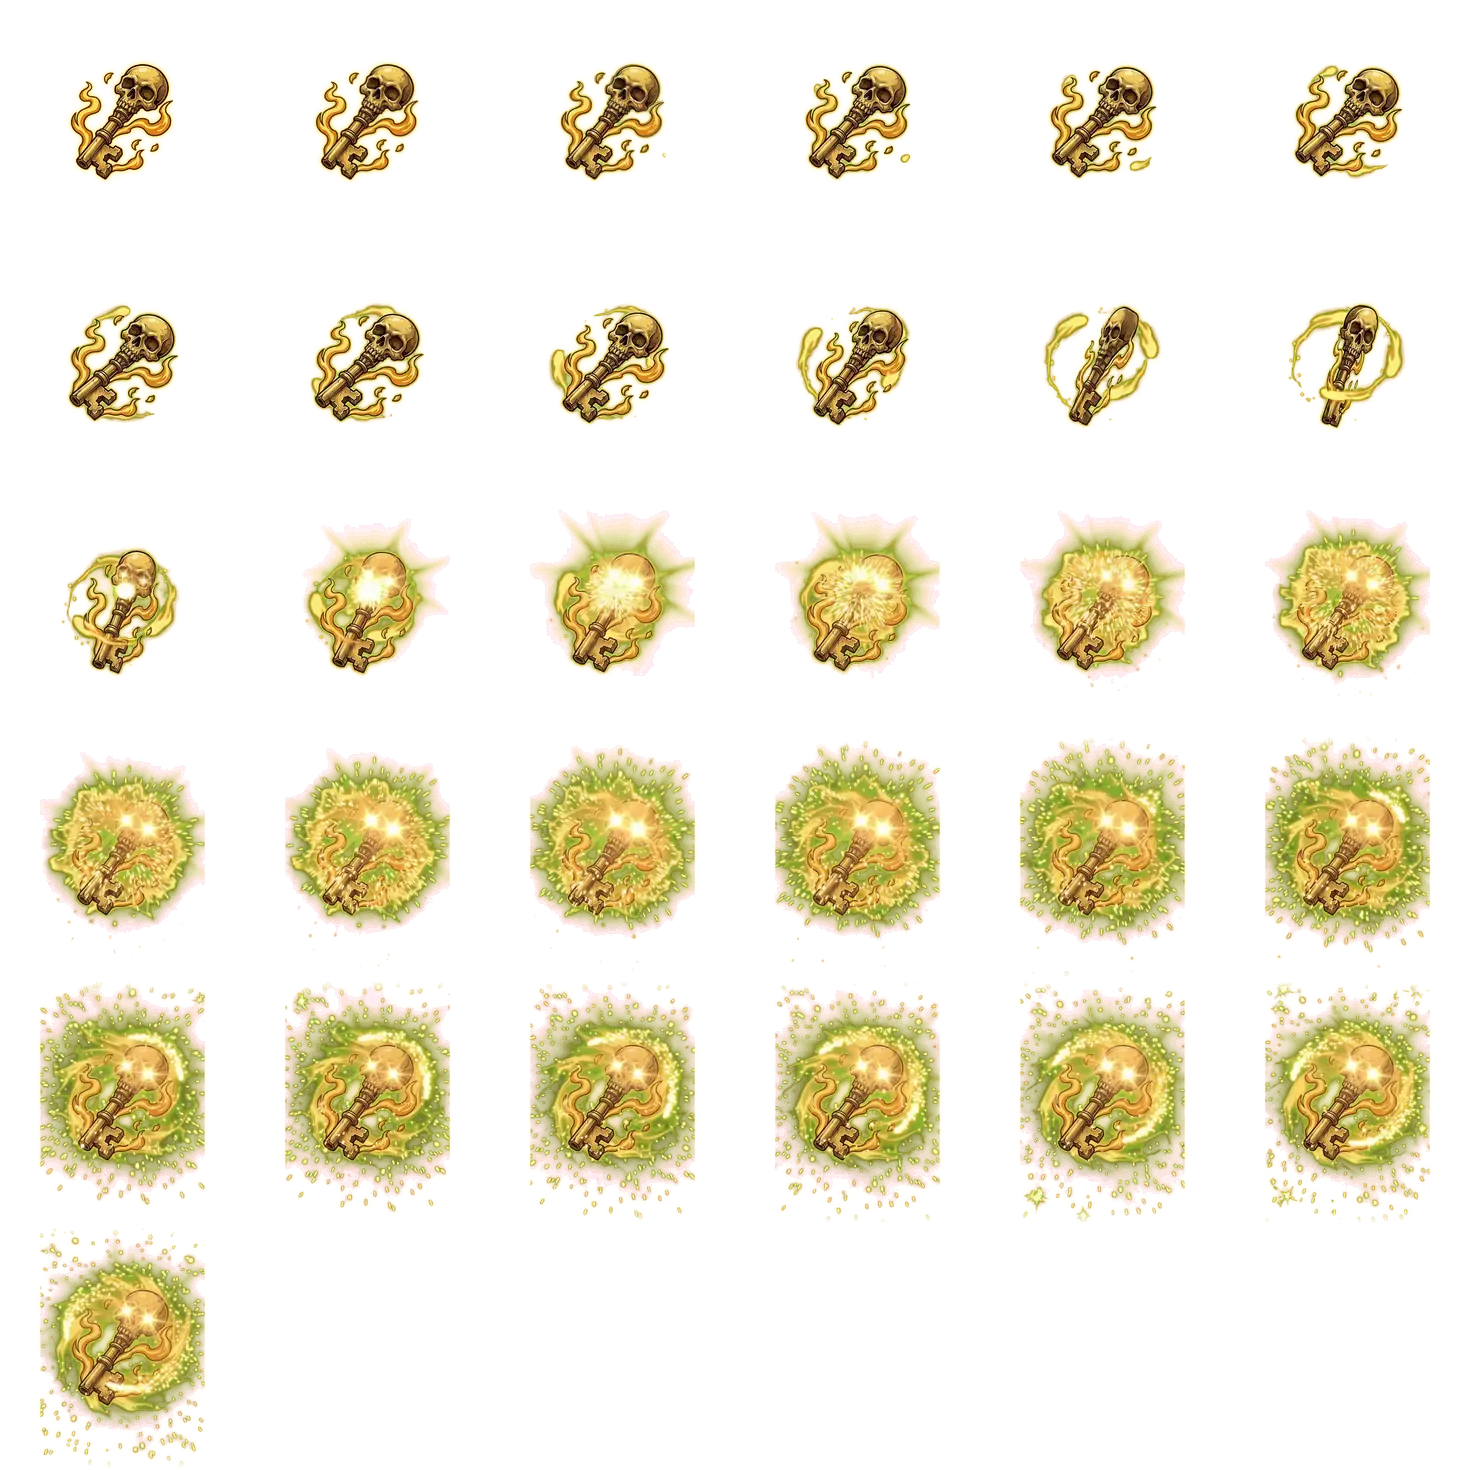
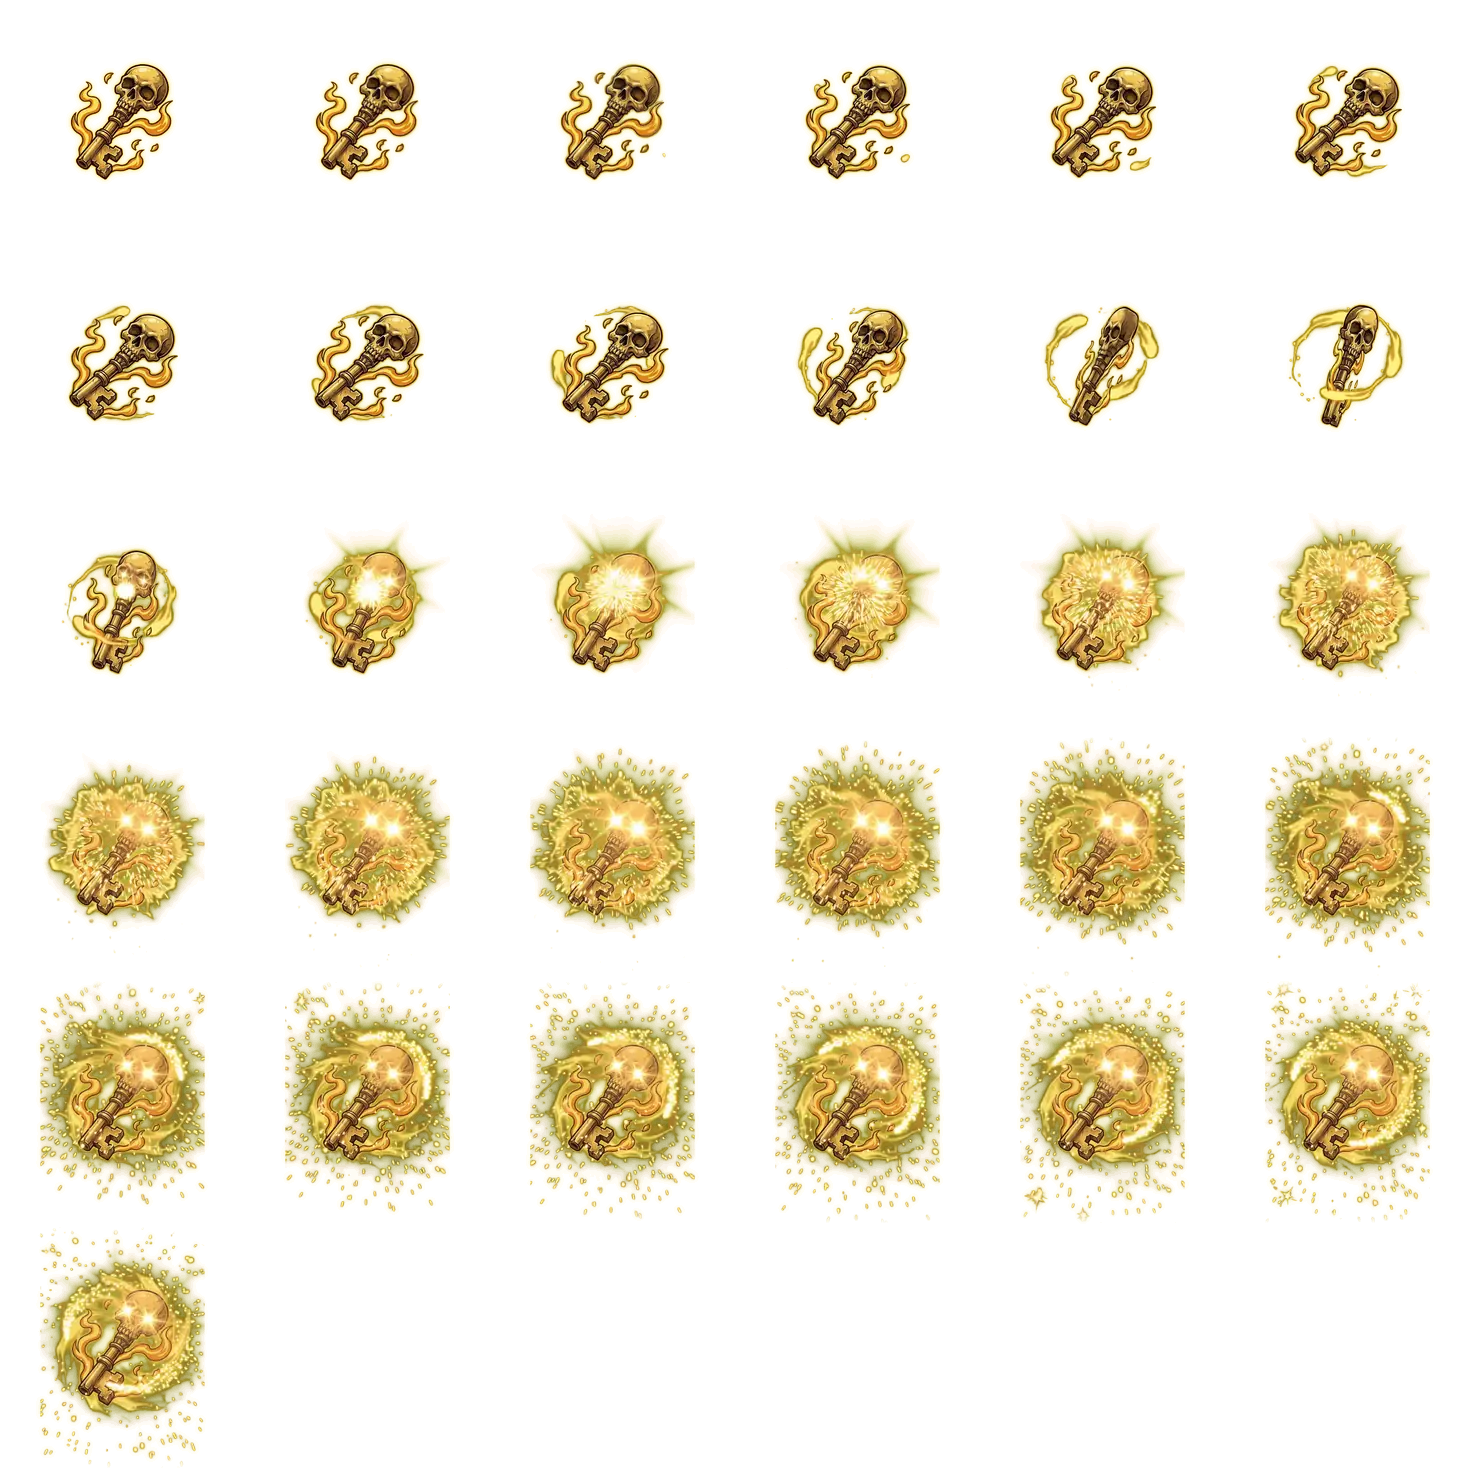
Skull key: idle loop and a clean gold win (backdrop read off each take, gold symbols pull pink or lime spill back to gold); the clip tool retries when the video limit refuses

diff --git a/tools/sprites/symanim.py b/tools/sprites/symanim.py
@@ -109,12 +109,16 @@ def frames(path):
     return out
 
 
-def key(rgb, bg):
-    """Alpha from how far a pixel leans to the backdrop colour, the colour unmixed from it: C = a F + (1 - a) B."""
+def key(rgb, warm=False):
+    """Alpha from how far a pixel leans to the backdrop colour, the colour unmixed from it: C = a F + (1 - a) B.
+    The backdrop (green or magenta) is read off the frame's edge, so takes on either key right. warm: the symbol is
+    gold (red >= green >= blue everywhere), so each pixel is given the gold hue, and the faint
+    halo a flash casts on the backdrop thins out."""
     r, g, b = rgb[..., 0], rgb[..., 1], rgb[..., 2]
-    lean = g - np.maximum(r, b) if bg == "green" else np.minimum(r, b) - g
     edge = np.concatenate([rgb[:8].reshape(-1, 3), rgb[-8:].reshape(-1, 3), rgb[:, :8].reshape(-1, 3), rgb[:, -8:].reshape(-1, 3)])
     B = np.median(edge, axis=0)  # this frame's backdrop, as filmed
+    bg = "green" if B[1] > max(B[0], B[2]) else "magenta"
+    lean = g - np.maximum(r, b) if bg == "green" else np.minimum(r, b) - g
     full = (B[1] - max(B[0], B[2])) if bg == "green" else (min(B[0], B[2]) - B[1])
     lo, hi = .22 * full, .86 * full  # leaning this little is the symbol's own colour; this much is backdrop
     a = np.clip((hi - lean) / (hi - lo), 0, 1)
@@ -130,6 +134,11 @@ def key(rgb, bg):
         cut_ = np.where(soft, np.maximum(m, 0), 0)
         F[..., 0] -= cut_
         F[..., 2] -= cut_
+    if warm:  # each pixel takes the gold hue, its brightness and saturation kept: pink or lime spill turns gold
+        hi_, lo_ = F.max(axis=2), F.min(axis=2)
+        off = (F[..., 1] > F[..., 0]) | (F[..., 2] > F[..., 1])  # only where the order is broken: gold and orange stay
+        F = np.where(off[..., None], np.dstack([hi_, lo_ + .7 * (hi_ - lo_), lo_]), F)
+        a = np.where(a < 1, a ** 1.6, a)  # and the faint halo of a flash thins out instead of veiling the frame
     F[a == 0] = 0
     return np.dstack([F, a * 255]).clip(0, 255).astype(np.uint8)
 
@@ -145,7 +154,6 @@ def build(ids, picks):
     meta_path = os.path.join(OUT, "anim.json")
     meta = json.load(open(meta_path, encoding="utf-8")) if os.path.exists(meta_path) else {}
     for i in ids:
-        bg = S[i]["bg"]
         sheets = {}
         for kind in ("idle", "win"):
             d = os.path.join(TAKES, f"anim-{i}-{kind}")
@@ -160,7 +168,7 @@ def build(ids, picks):
             else:
                 step = 24 / IDLE_FPS
                 fr = [fr[int(round(k * step))] for k in range(int(len(fr) / step))]
-            rgba = [key(f, bg) for f in fr]
+            rgba = [key(f, S[i].get("warm", False)) for f in fr]
             # the symbol's box in the clip, and the margin the motion reaches out to (the same on every side, so the
             # game can lay the canvas out round the symbol evenly)
             x0, y0 = (FW - SYM_PX) / 2, (FH - SYM_PX) / 2
